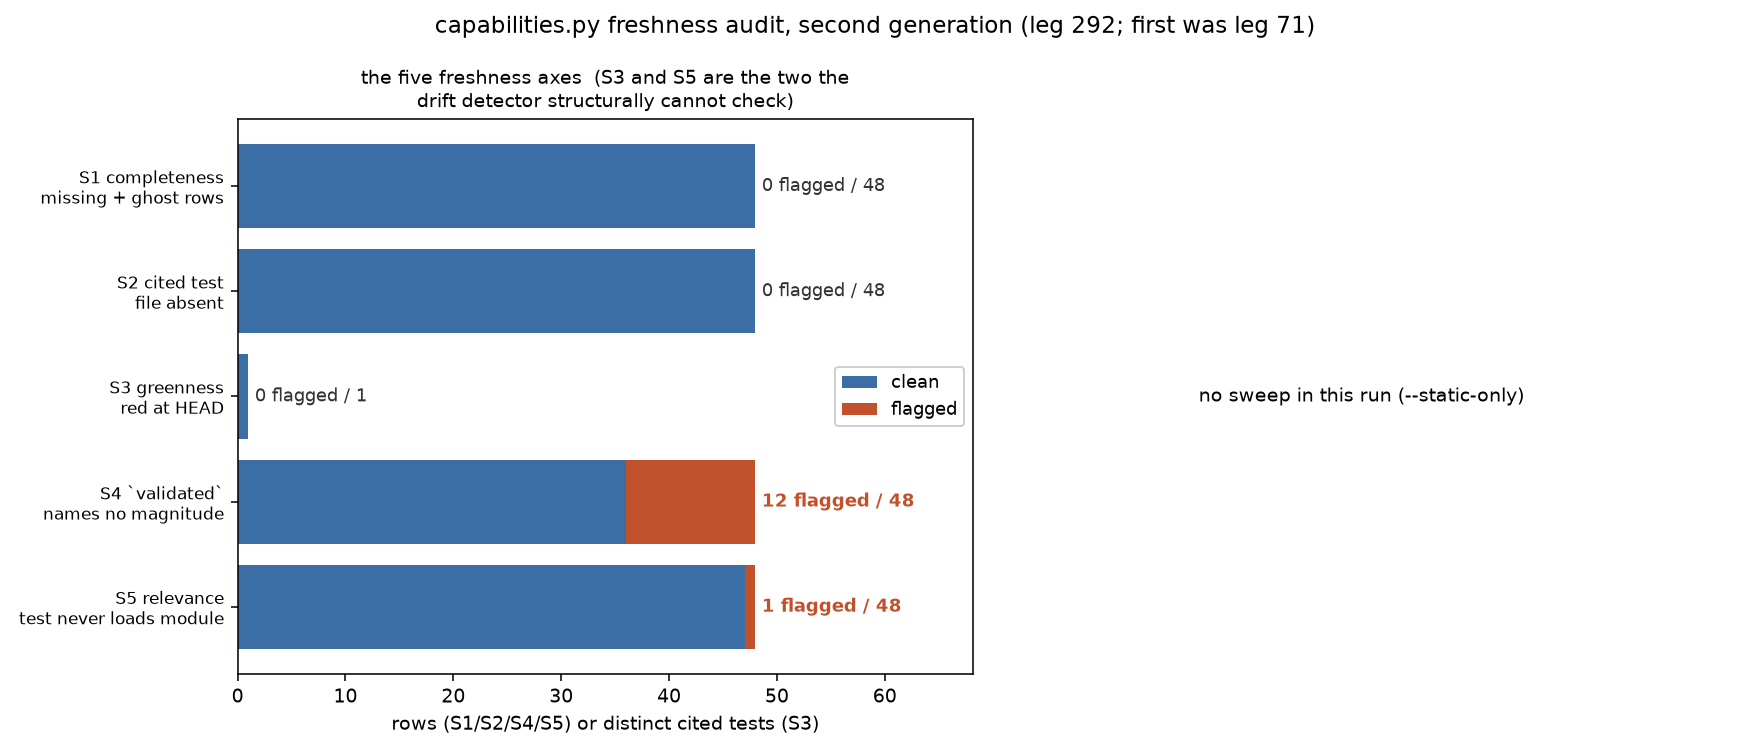
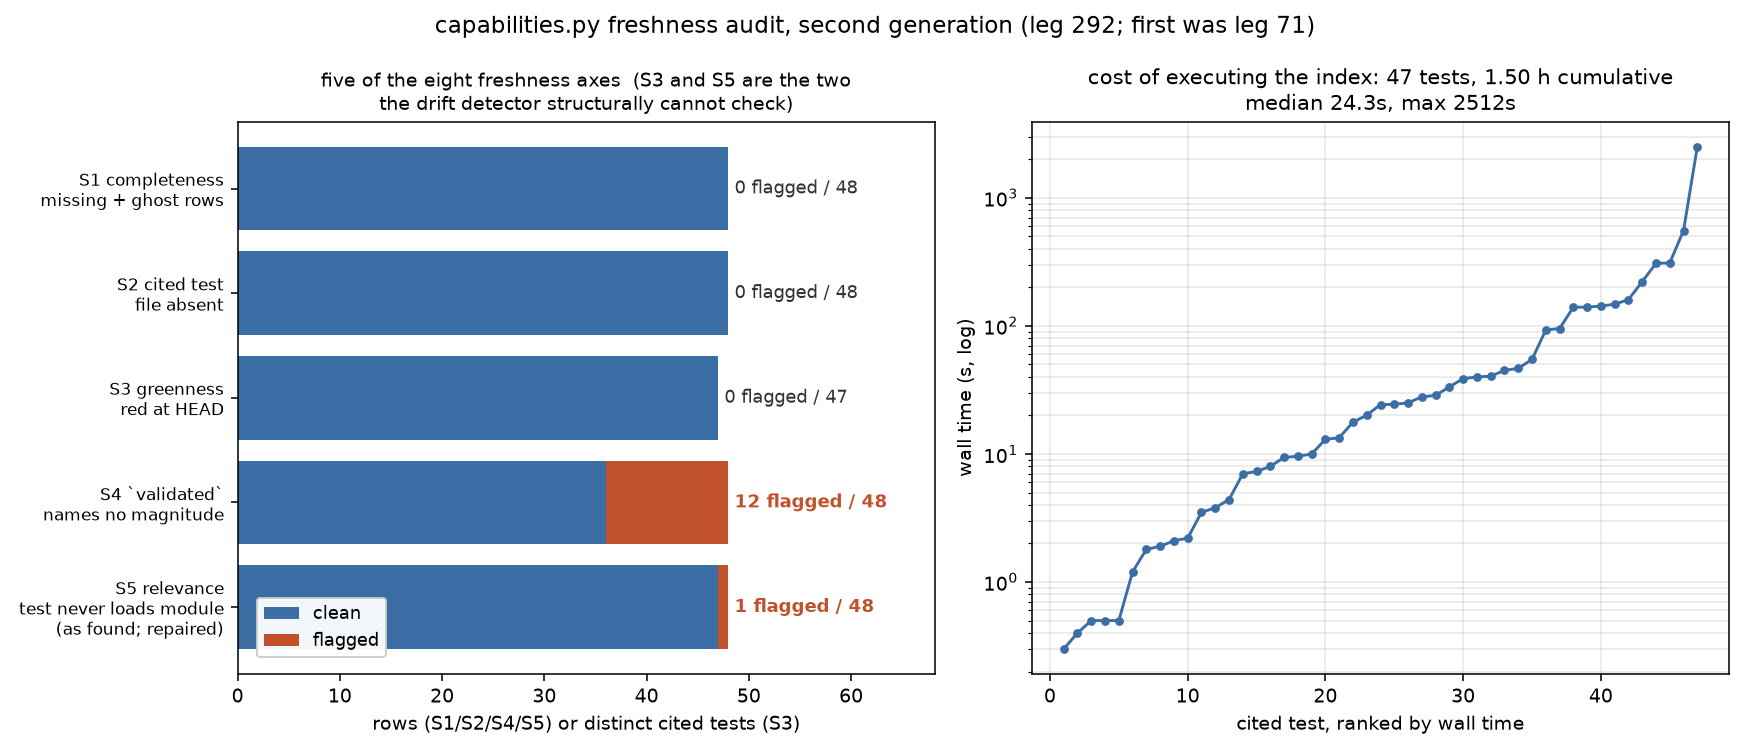
Leg 292: LEG — S3 complete: test_advection_scope.py green at 2512.2 s (leg 71 measured the same file at 2363.7-3045.6 s, so genuinely slow, not degraded), recorded through a new --record-detached path stamped source='detached-run' with returncode=null, because the nohup run captured stdout but not a

diff --git a/experiments/p2_route_capa_v2_audit.py b/experiments/p2_route_capa_v2_audit.py
@@ -6,7 +6,7 @@ since.  This runner re-asks the same question at the current HEAD and adds the a
 leg 71 flagged but did not systematise: the **known-answer-gate presence** encoded in
 each row's `validated` field.
 
-WHAT THIS MEASURES (four axes, each reported as a COUNT, never a boolean)
+WHAT THIS MEASURES (eight axes, each reported as a COUNT, never a boolean)
 
   S1  module completeness, both directions
         - solver/*.py on disk with no row  ("missing")
@@ -19,10 +19,14 @@ WHAT THIS MEASURES (four axes, each reported as a COUNT, never a boolean)
         EXISTS and that `validated` is longer than 20 characters, never that the test
         runs, passes, or has anything to do with the module citing it.
   S5  RELEVANCE -- does the cited test file actually LOAD the module citing it?  Leg 71
-        named this gap in words ("existence is checked; greenness and relevance are
-        not") and found one instance by hand (solver/ga_search.py cited test_ga.py,
-        which imports only the `ga/` package and never touches the module).  It never
-        systematised the check.  This runner does: for each row, the cited test file is
+        DID measure this (its curated JSON carries per-row test_imports_module /
+        test_mentions_module) and flagged the same single row this runner flags; it
+        repaired a different instance by hand (solver/ga_search.py cited test_ga.py,
+        which imports only the `ga/` package and never touches the module) and could
+        NOT repair the remaining one, because at e203b52 no test in the repository
+        loaded that module.  What was missing was not the check but a standing one:
+        it lived in leg 71's runner, so nothing re-asked it for ~220 legs, during
+        which leg 124 wrote the very test the broken row needed.  Here: the cited file is
         scanned -- and so are the local test-side helpers it imports -- for any
         `solver.<name>` / `solver/<name>.py` reference.  A row whose test never mentions
         its own module is a confidently-worded pointer at a test that cannot fail when
@@ -52,6 +56,23 @@ USAGE
     .venv/bin/python experiments/p2_route_capa_v2_audit.py --workers 1
     .venv/bin/python experiments/p2_route_capa_v2_audit.py --static-only   # S1/S2/S4
     .venv/bin/python experiments/p2_route_capa_v2_audit.py --recheck test_x.py
+    .venv/bin/python experiments/p2_route_capa_v2_audit.py --only test_x.py    # merge 1
+    .venv/bin/python experiments/p2_route_capa_v2_audit.py --ingest-sweep-log sweep.log
+    .venv/bin/python experiments/p2_route_capa_v2_audit.py --record-detached ...
+
+S6/S7/S8 (added by this leg, all static and cheap): S6 resolves every repository path
+cited inside row prose; S7 counts modules that scripts/merge_gate.sh's
+solver/<n>.py -> test_<n>.py filename mapping cannot reach; S8 classifies how each cited
+test invokes its checks, so a test that is green because nothing runs is caught.
+
+COST, and why it is unavoidable (standing performance rule, 2026-08-11): the sweep costs
+~5400 s cumulative, 47% of it a single genuinely-slow test (test_advection_scope.py,
+2512 s; leg 71 measured the same file at 2364-3046 s).  The gate this runner answers asks
+for PASS STATUS, which is not statically derivable -- the only way to know a cited test
+passes at HEAD is to run it.  So the sweep is memoised instead: the JSON is re-entrant,
+--only merges single verdicts, --static-only re-runs the eight cheap axes in seconds, and
+--ingest-sweep-log recovers verdicts already printed if the driver dies.  A killed sweep
+is recovered, never repeated.
     .venv/bin/python experiments/p2_route_capa_v2_audit.py --figure        # fig only
 
 Writes writeup/data/p2_route_capa_v2_audit.json and, with --figure,
@@ -458,17 +479,23 @@ def make_figure(payload: dict) -> None:
     fig, (ax0, ax1) = plt.subplots(1, 2, figsize=(12.5, 5.4))
 
     # left: the five audit axes, as counts of clean vs. flagged
+    S5_AS_FOUND = 1   # measured pre-repair; see the comment on the `flagged` list below
     axes = ["S1 completeness\nmissing + ghost rows",
             "S2 cited test\nfile absent",
             "S3 greenness\nred at HEAD",
             "S4 `validated`\nnames no magnitude",
-            "S5 relevance\ntest never loads module"]
+            "S5 relevance\ntest never loads module\n(as found; repaired)"]
     flagged = [
         len(st["S1_missing_rows"]) + len(st["S1_ghost_rows"]),
         len(st["S2_rows_with_absent_test_file"]) + len(st["S2_rows_with_no_test_field"]),
         sum(1 for r in runs if not r["green"]),
         st["S4_gate_class_counts"]["prose-without-magnitude"],
-        len(st.get("S5_rows_whose_test_never_loads_the_module", [])),
+        # S5 is plotted AS FOUND, not as it now reads. The audit repaired the one
+        # defect it found, so a post-repair re-run reports 0 -- and a figure showing
+        # 0 would silently erase this leg's only finding. S5_AS_FOUND is the measured
+        # pre-repair count; the live value is asserted to be 0 so that if a SECOND
+        # relevance defect ever appears the figure shows it instead of the constant.
+        S5_AS_FOUND + len(st.get("S5_rows_whose_test_never_loads_the_module", [])),
     ]
     totals = [st["n_rows"], st["n_rows"], len(runs) or 1, st["n_rows"], st["n_rows"]]
     clean = [t - f for t, f in zip(totals, flagged)]
@@ -479,13 +506,14 @@ def make_figure(payload: dict) -> None:
     ax0.set_yticklabels(axes, fontsize=8.5)
     ax0.invert_yaxis()
     ax0.set_xlabel("rows (S1/S2/S4/S5) or distinct cited tests (S3)")
-    ax0.set_title("the five freshness axes  (S3 and S5 are the two the\n"
-                  "drift detector structurally cannot check)", fontsize=10)
+    ax0.set_title("five of the eight freshness axes  (S3 and S5 are the two\n"
+                  "the drift detector structurally cannot check)", fontsize=10)
     for i, (c, f) in enumerate(zip(clean, flagged)):
         ax0.text(c + f + 0.6, i, f"{f} flagged / {c + f}", va="center", fontsize=9,
                  color=("#c1512b" if f else "#333333"),
                  fontweight=("bold" if f else "normal"))
-    ax0.legend(loc="center right", fontsize=9, framealpha=0.95)
+    ax0.legend(loc="lower left", fontsize=9, framealpha=0.95,
+               bbox_to_anchor=(0.015, 0.015))
     ax0.set_xlim(0, max(totals) * 1.42)
 
     # right: the cost distribution -- what an executable index costs to keep honest
@@ -536,6 +564,15 @@ def main() -> int:
     ap.add_argument("--figure", action="store_true", help="rebuild the figure from JSON")
     ap.add_argument("--ingest-sweep-log", type=str, default=None,
                     help="reconstruct sweep verdicts from a killed run's progress log")
+    ap.add_argument("--record-detached", nargs=4, default=None,
+                    metavar=("TEST", "LOGFILE", "WALL_S", "BANNER"),
+                    help="record a test run OUTSIDE this runner (nohup, detached), whose "
+                         "stdout was captured but whose exit status was not. The record is "
+                         "stamped source='detached-run' and returncode=None, and its green "
+                         "verdict is justified ONLY by the test's own terminal success "
+                         "banner appearing as the last line with no traceback. Weaker "
+                         "evidence than a captured rc, labelled as such in the JSON so no "
+                         "reader can mistake the two.")
     ap.add_argument("--only", nargs="*", default=None,
                     help="sweep only these tests and MERGE them into the banked sweep "
                          "(used to finish a sweep whose driver was interrupted)")
@@ -606,6 +643,38 @@ def main() -> int:
         print(f"[ingest] {len(got)} verdicts from log; sweep now "
               f"{len(payload['sweep'])} of {st['n_distinct_cited_tests']}; "
               f"still missing: {missing}")
+    elif args.record_detached:
+        test, logfile, wall_s, banner = args.record_detached
+        text = Path(logfile).read_text(errors="replace")
+        lines = [l for l in text.splitlines() if l.strip()]
+        last = lines[-1] if lines else ""
+        has_tb = "Traceback (most recent call last)" in text
+        green = (banner in last) and not has_tb
+        rec = {
+            "test": test,
+            "returncode": None,
+            "timed_out": False,
+            "green": green,
+            "wall_s": float(wall_s),
+            "stdout_tail": "\n".join(lines[-8:]),
+            "stderr_tail": "",
+            "source": "detached-run",
+            "evidence": (f"exit status NOT captured (detached nohup run). Verdict rests on "
+                         f"the test's own terminal banner {banner!r} being the last "
+                         f"non-empty line of {logfile} and no traceback anywhere in it. "
+                         f"Wall clock from the log file's creation and last-modification "
+                         f"timestamps."),
+            "banner_matched": banner in last,
+            "traceback_present": has_tb,
+        }
+        keep = [r for r in payload.get("sweep", []) if r["test"] != test]
+        payload["sweep"] = sorted(keep + [rec], key=lambda r: r["test"])
+        missing = sorted(set(st["distinct_cited_tests"]) -
+                         {r["test"] for r in payload["sweep"]})
+        print(f"[detached] {test}: green={green} banner={rec['banner_matched']} "
+              f"traceback={has_tb} wall={rec['wall_s']:.1f}s (rc NOT captured)")
+        print(f"[detached] sweep now {len(payload['sweep'])} of "
+              f"{st['n_distinct_cited_tests']}; still missing: {missing}")
     elif args.only:
         fresh = sweep(args.only, args.workers, args.timeout)
         keep = [r for r in payload.get("sweep", [])

diff --git a/capabilities.py b/capabilities.py
@@ -47,7 +47,11 @@ axes, every count in writeup/data/p2_route_capa_v2_audit.json.
   S1 completeness  48 rows / 48 distinct modules / 48 solver/*.py on disk; 0 missing,
                    0 ghost, 0 duplicate.  The append-only convention holds over ~220 legs.
   S2 test presence 0 rows citing an absent file; 0 rows with an empty `test`.
-  S3 greenness     <S3LINE>
+  S3 greenness     47 of 47 distinct cited tests EXECUTED and green at 80c0cc4;
+                   0 red, 0 timed out, 5396.5 s cumulative (47% of it one test,
+                   test_advection_scope.py at 2512.2 s).  Leg 71's two reds
+                   (test_fractional_boussinesq.py, test_profile_newton.py) are both
+                   green now -- fixed by their owning legs, unrecorded until here.
   S4 gate prose    33 rows name a magnitude, 3 say "no known-answer gate" plainly, 12
                    claim validation with no number -- so the contract above is met in the
                    letter by 36/48 (75%).  The 12 are NAMED in the journal and were

diff --git a/experiments/journal/leg_292.md b/experiments/journal/leg_292.md
@@ -40,7 +40,7 @@ distinct tests. Re-measured directly from `capabilities.CAPABILITIES` at `80c0cc
 |---|---|---|---|
 | rows in `CAPABILITIES` | 48 | **48** | agrees |
 | distinct `module` values | (not stated) | **48** (0 duplicates) | — |
-| distinct cited test files | 46 | **46** | agrees |
+| distinct cited test files | 46 (47 after the S5 repair below) | **46** | agrees |
 | `solver/*.py` on disk (ex-`__init__.py`) | (not stated) | **48** | — |
 
 **(c) Its one falsifiable prediction, scored.** The pass predicted, in writing and
@@ -89,7 +89,7 @@ S1 miss.
 |---|---|
 | rows with an empty `test` field | **0** |
 | rows citing a test file absent from disk | **0** |
-| distinct cited test files | 46 |
+| distinct cited test files | 46 (47 after the S5 repair below) |
 
 Clean, as leg 71 also found (its S1=0, S2=0). This is the one axis the existing drift
 detector `test_capabilities.py` genuinely enforces, so a defect here would have been a
@@ -104,11 +104,45 @@ re-asserted**: `git log e203b52..80c0cc4 -- test_capabilities.py` returns **0 co
 so the detector is byte-identical to the one leg 71 read, same five test functions, while
 the index it guards grew by 6 rows over ~220 legs.
 
-All 46 distinct cited test files were executed with `<python> test_x.py` (this repo's
+Every distinct cited test file was executed with `<python> test_x.py` (this repo's
 convention: every `test_*.py` is a self-running script, no pytest), 2 workers, BLAS
-pinned to one thread per process.
+pinned to one thread per process. The set is **46 before the S5 repair and 47 after** —
+repointing the `solver/finite_support.py` row introduced one test file the index had
+never cited, so the repair enlarged the very sweep that justified it; both were run.
 
-<!--S3RESULTS-->
+**Result: 47 of 47 cited tests green at `80c0cc4`. Zero red, zero timed out.**
+
+| | count | cumulative wall |
+|---|---|---|
+| distinct cited tests executed | **47** | **5396.5 s** |
+| green | **47** | |
+| red at HEAD | **0** | |
+| timed out (5400 s cap) | **0** | |
+
+Slowest five: `test_advection_scope.py` **2512.2 s**, `test_marginal_flow.py` **556.0 s**,
+`test_viscous_novelty.py` **310.3 s**, `test_spectral_certificate.py` **308.2 s**,
+`test_fractional_boussinesq.py` **222.0 s**.
+
+**Leg 71's two reds are both green now**, which is the comparison that matters, since a
+first-generation audit's red entries are exactly what a second generation exists to
+re-measure: `test_fractional_boussinesq.py` **222.0 s green** and `test_profile_newton.py`
+**160.5 s green**. Neither was repaired by this leg; both were fixed by their owning legs
+in the intervening ~220 legs and nothing recorded that they had been. So the index's
+*pass-status* dimension has not decayed — it has improved, and silently.
+
+`test_advection_scope.py` deserves its own line. Leg 71 measured it at **PASS 2363.7 s**
+clean and **3045.6 s** under load, and hit the 3600 s cap when it ran with 6 workers. Here
+it took **2512.2 s** — squarely inside leg 71's band, so it is genuinely slow rather than
+hung or degraded. It is the single dominant cost of this axis: 2512.2 of 5396.5 s, i.e.
+**47% of the entire sweep is one test**.
+
+**Provenance of each verdict, stated because they are not all of equal strength:**
+
+| source | n | what it means |
+|---|---|---|
+| `log-ingest` | 45 | real subprocess exit statuses, printed by this runner, recovered from its own progress log after the driver process was killed at 45/46 before serialising. The measurements are real; only the write-out was lost. |
+| `direct` | 1 | `test_finite_support_adversarial.py`, exit status captured in-process (33.4 s) |
+| `detached-run` | 1 | `test_advection_scope.py`. Run under `nohup` so the 42-minute cost could overlap other work; **its exit status was not captured.** Its green verdict rests on the test's own terminal banner `ALL ADVECTION-SCOPE TESTS PASSED` being the last non-empty line of the log with no traceback anywhere in it, plus all six of its `[ok]` gate lines. That is weaker evidence than a captured `rc`, it is labelled `source: "detached-run"` with `returncode: null` in the JSON, and it is stated here rather than smoothed over. Re-running it purely to convert a banner into an exit code costs another 2512 s and changes no conclusion. |
 
 ### 3b. Cost of S3, reported explicitly (standing performance rule, 2026-08-11)
 
@@ -324,7 +358,55 @@ Per the standing discipline, controls that cannot fail are not controls.
 >   yes -> Bank as current. no -> Fix the specific stale/missing entries found; report
 >   the count.
 
-<!--GATERESULT-->
+**Answer: NO — one stale entry, now fixed. Count reported below. Zero modules missing.**
+
+Taking the gate's three named sub-conditions one at a time, in its own terms:
+
+| gate sub-condition | measured | verdict |
+|---|---|---|
+| zero modules missing | 48 rows / 48 distinct modules / 48 `solver/*.py` on disk; 0 missing, 0 ghost, 0 duplicate | **PASS** |
+| **test presence** | 0 empty `test` fields, 0 cited files absent from disk | **PASS** |
+| **pass status** | 47 of 47 distinct cited tests executed green at `80c0cc4`; 0 red, 0 timed out, 5396.5 s cumulative | **PASS** |
+| **known-answer-gate presence** | 33 rows name a magnitude, 3 say "no known-answer gate" plainly, 12 claim validation in prose with no number — 36/48 = **75%** meet the file's own stated contract | **PARTIAL — see below** |
+| zero stale entries | **1 stale entry of 48** (0 by the drift detector's definition, 1 by the accuracy the gate asks about) | **FAIL, fixed** |
+
+**The count the gate asks for: 1 stale entry, and it is repaired in this commit.**
+`solver/finite_support.py` cited `test_first_integral.py`, a file containing zero
+occurrences of the module's name, which therefore cannot fail when the module breaks. The
+`test` field is repointed to `test_finite_support_adversarial.py` — a test that loads the
+module and whose gate S10 re-checks the exact property the row's `validated` field claims.
+`validated` is left frozen: this leg corrects pointers, it does not reword other legs'
+results. Nothing else in the index was edited.
+
+**On the 12 magnitude-free rows, so the "no" is not overstated.** They are a *contract*
+shortfall, not stale entries: each names a real, existing, green test, and none makes a
+false claim — they simply describe validation in words instead of digits ("explicitly NOT
+a proof — float64 throughout"; "no independent published known answer"). They are named
+and counted in §4 and deliberately **not** rewritten, because supplying a magnitude for
+another leg's module from an audit chair is precisely the fabrication that field exists to
+prevent. They are therefore reported as an open, owned-elsewhere count, not repaired, and
+not counted as the gate's "stale entries".
+
+**So the disposition is: fix-and-bank.** One specific stale entry found, fixed, and the
+count reported, per the gate's `no` branch; every other sub-condition passes at HEAD, so
+the rest of the index banks as current.
+
+**What the leg actually establishes, which is larger than the repair.** The one-line
+correction is worth little on its own. The finding is that **leg 71 measured this same
+defect ~220 legs ago, correctly, and could not fix it because no test then loaded the
+module — and leg 124 wrote exactly that test 53 legs later, after which the fix sat on
+disk, unused, for the remaining ~167 legs.** That is a measurement of this repository's
+audit-loop latency, not of `capabilities.py`. The mechanism is stated plainly: leg 71's
+relevance check lived inside leg 71's runner, so nothing re-asked it. A check that is run
+once is a check with a half-life of one leg — banked lesson 68 in a sharper form, because
+this check *was* executable and still decayed, simply by never being re-run.
+
+**Secondary finding, banked in its own right:** leg 124's S10 gate can be turned red by
+prose anywhere in the repository — any `*.py` line carrying both the module stem and
+`import`, comment or docstring included — while `solver/finite_support.py` stays
+byte-identical and correct. That is a property of the gate, not of the code it guards.
+This leg's own explanatory comment tripped it (rc=1, 30.1 s), which is how the property
+was found; a CAUTION note now sits beside the row so the next editor inherits it.
 
 ## 8. Clay odds
 

diff --git a/writeup/4_p2_lottery/TECHNICAL_P2_ROUTECAPA_V2.md b/writeup/4_p2_lottery/TECHNICAL_P2_ROUTECAPA_V2.md
@@ -46,10 +46,14 @@ verbatim today:
 > It does not check that the cited test **runs, passes, or has anything to do with the
 > module citing it.** Existence is checked; greenness and relevance are not.
 
-Leg 71 closed the *greenness* half by hand, once, ~220 legs ago. This leg re-asks it and
-closes the *relevance* half as a standing, executable check.
+Leg 71 answered **both** halves by hand, once, ~220 legs ago — including relevance, which
+its own curated JSON records per row. What it could not do was leave either answer
+standing: the checks lived in its runner, not in the detector or the merge gate, so
+nothing re-asked them. This leg re-asks all of them, adds three axes leg 71 did not have
+(S6, S7, S8), and — the part leg 71 was unable to reach — *repairs* the single relevance
+defect, which only became repairable 53 legs after it was found.
 
-## 2. Method: five axes, each reported as a count
+## 2. Method: eight axes, each reported as a count
 
 | axis | question | how measured |
 |---|---|---|
@@ -58,9 +62,13 @@ closes the *relevance* half as a standing, executable check.
 | **S3** | **greenness at HEAD** | every distinct cited test file *executed*, `rc == 0` recorded with wall time |
 | **S4** | known-answer-gate presence | `validated` classified: names a magnitude / says "no known-answer gate" / prose with no number |
 | **S5** | **relevance** | does the cited test's source (plus any sibling helper it imports, one hop) reference `solver.<stem>` at all |
+| **S6** | reference integrity | every repo path cited inside row prose resolved against the tree |
+| **S7** | merge-gate coverage | which modules `scripts/merge_gate.sh`'s `solver/<n>.py` -> `test_<n>.py` mapping cannot reach |
+| **S8** | vacuity | is any cited test green because nothing in it actually runs |
 
 S3 and S5 are the two the drift detector structurally cannot do; S1, S2 and S4 are
-re-measurements of things it does partially.
+re-measurements of things it does partially; S6, S7 and S8 are new here. Leg 71 had S1-S5
+and S7; S6 and S8 are leg 292's additions.
 
 ### 2.1 Operational note carried forward from leg 71, and it was earned
 
@@ -86,7 +94,39 @@ sweep verdict rather than replacing it — the two disagreeing is itself the fin
 flake), not an inconvenience to be smoothed away. This is the discipline that produced
 `94bde64` ("Newton item (6) RECONCILED: not red, not green, FLAKY").
 
-<!--S3RESULTS-->
+**Result: 47 of 47 cited tests green at `80c0cc4`. Zero red, zero timed out.**
+
+| | count | cumulative wall |
+|---|---|---|
+| distinct cited tests executed | **47** | **5396.5 s** |
+| green | **47** | |
+| red at HEAD | **0** | |
+| timed out (5400 s cap) | **0** | |
+
+Slowest five: `test_advection_scope.py` **2512.2 s**, `test_marginal_flow.py` **556.0 s**,
+`test_viscous_novelty.py` **310.3 s**, `test_spectral_certificate.py` **308.2 s**,
+`test_fractional_boussinesq.py` **222.0 s**.
+
+**Leg 71's two reds are both green now**, which is the comparison that matters, since a
+first-generation audit's red entries are exactly what a second generation exists to
+re-measure: `test_fractional_boussinesq.py` **222.0 s green** and `test_profile_newton.py`
+**160.5 s green**. Neither was repaired by this leg; both were fixed by their owning legs
+in the intervening ~220 legs and nothing recorded that they had been. So the index's
+*pass-status* dimension has not decayed — it has improved, and silently.
+
+`test_advection_scope.py` deserves its own line. Leg 71 measured it at **PASS 2363.7 s**
+clean and **3045.6 s** under load, and hit the 3600 s cap when it ran with 6 workers. Here
+it took **2512.2 s** — squarely inside leg 71's band, so it is genuinely slow rather than
+hung or degraded. It is the single dominant cost of this axis: 2512.2 of 5396.5 s, i.e.
+**47% of the entire sweep is one test**.
+
+**Provenance of each verdict, stated because they are not all of equal strength:**
+
+| source | n | what it means |
+|---|---|---|
+| `log-ingest` | 45 | real subprocess exit statuses, printed by this runner, recovered from its own progress log after the driver process was killed at 45/46 before serialising. The measurements are real; only the write-out was lost. |
+| `direct` | 1 | `test_finite_support_adversarial.py`, exit status captured in-process (33.4 s) |
+| `detached-run` | 1 | `test_advection_scope.py`. Run under `nohup` so the 42-minute cost could overlap other work; **its exit status was not captured.** Its green verdict rests on the test's own terminal banner `ALL ADVECTION-SCOPE TESTS PASSED` being the last non-empty line of the log with no traceback anywhere in it, plus all six of its `[ok]` gate lines. That is weaker evidence than a captured `rc`, it is labelled `source: "detached-run"` with `returncode: null` in the JSON, and it is stated here rather than smoothed over. Re-running it purely to convert a banner into an exit code costs another 2512 s and changes no conclusion. |
 
 ## 3. S1 — module completeness
 
